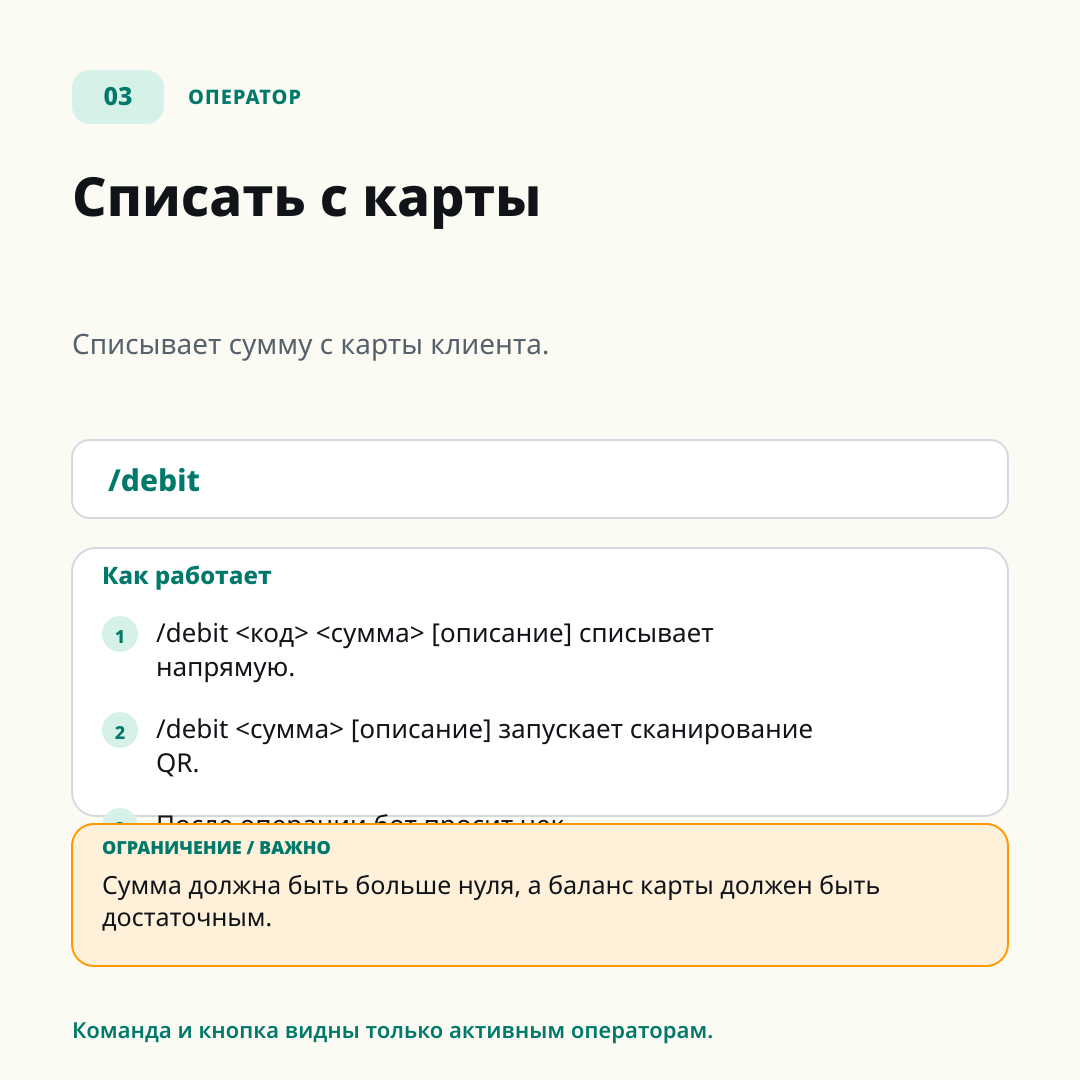
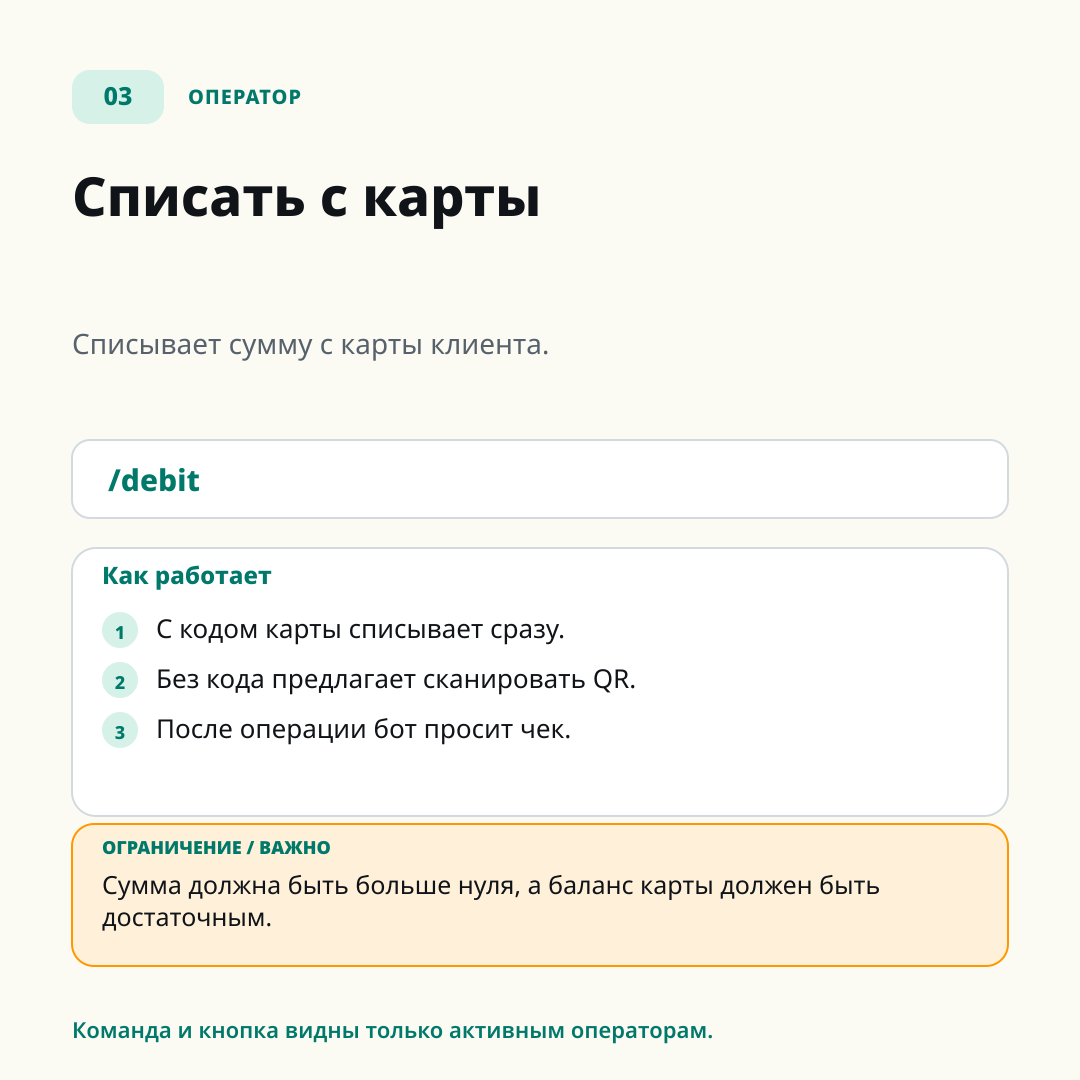
Refine Telegram bot card skill copy

Changed region(s): [[0.0917, 0.55, 0.6722, 0.6417], [0.1528, 0.6722, 0.7639, 0.7333], [0.0917, 0.7333, 0.1222, 0.7639]]

diff --git a/.codex/skills/telegram-bot-doc-cards/SKILL.md b/.codex/skills/telegram-bot-doc-cards/SKILL.md
@@ -32,6 +32,8 @@ Use this skill to turn the current Telegram bot implementation into user-facing 
    - Operator: warm off-white background and green accent.
    - Structure: numbered badge + audience label, large title, intro, command pill, “Как работает” block with three numbered steps, “Ограничение / важно” warning block, short footer.
    - Avoid dense dark cards, nested panels, tiny text, or long prose that competes with Telegram preview readability.
+   - Keep all visible card copy in Russian except command names, product names, and common abbreviations such as QR.
+   - Hide implementation details. Do not mention internal terms such as actor, policy, transaction, owned card, bearer, provider, `operatorId`, environment variables, or database table names on cards.
 
 5. **Use Figma when available, but do not hide connector failures.**
    - Load the required Figma skills before Figma write calls.
@@ -53,6 +55,7 @@ node /path/to/telegram-bot-doc-cards/scripts/render-telegram-bot-cards.mjs /path
 
 7. **Verify before completion.**
    - Run `identify docs/telegram-bot-cards/user/*.png docs/telegram-bot-cards/operator/*.png` and confirm every card is `1080x1080`.
+   - Keep the renderer's layout guard enabled. If it throws a text overflow error, shorten the card text instead of shrinking it into unreadable type.
    - Open representative generated cards with an image viewer tool when available, especially cards with long command names or warnings.
    - Run the project’s relevant check, typically `npm run typecheck`, when docs were changed in a TypeScript repo.
    - Report exactly what was updated, what passed, and whether Figma was actually updated.
@@ -61,9 +64,10 @@ node /path/to/telegram-bot-doc-cards/scripts/render-telegram-bot-cards.mjs /path
 
 - Include conditions for command/menu visibility, not just command syntax.
 - Mark operator-only actions explicitly.
-- Mention QR Mini App fallback when `WEB_APP_URL` is absent.
-- Mention receipt requirements after `CREATE`, `DEBIT`, and `CREDIT`.
+- Mention QR-scanner fallback without exposing config variable names.
+- Mention receipt requirements after gift-card creation, debit, and credit without exposing internal transaction type names.
 - Keep card text shorter than the docs page. Cards are summaries, not the full manual.
+- Use audience language: explain what a user or operator needs to know, not how the code or database implements it.
 - Never claim Figma was updated unless the Figma tool call succeeded.
 
 ## Bundled Script
